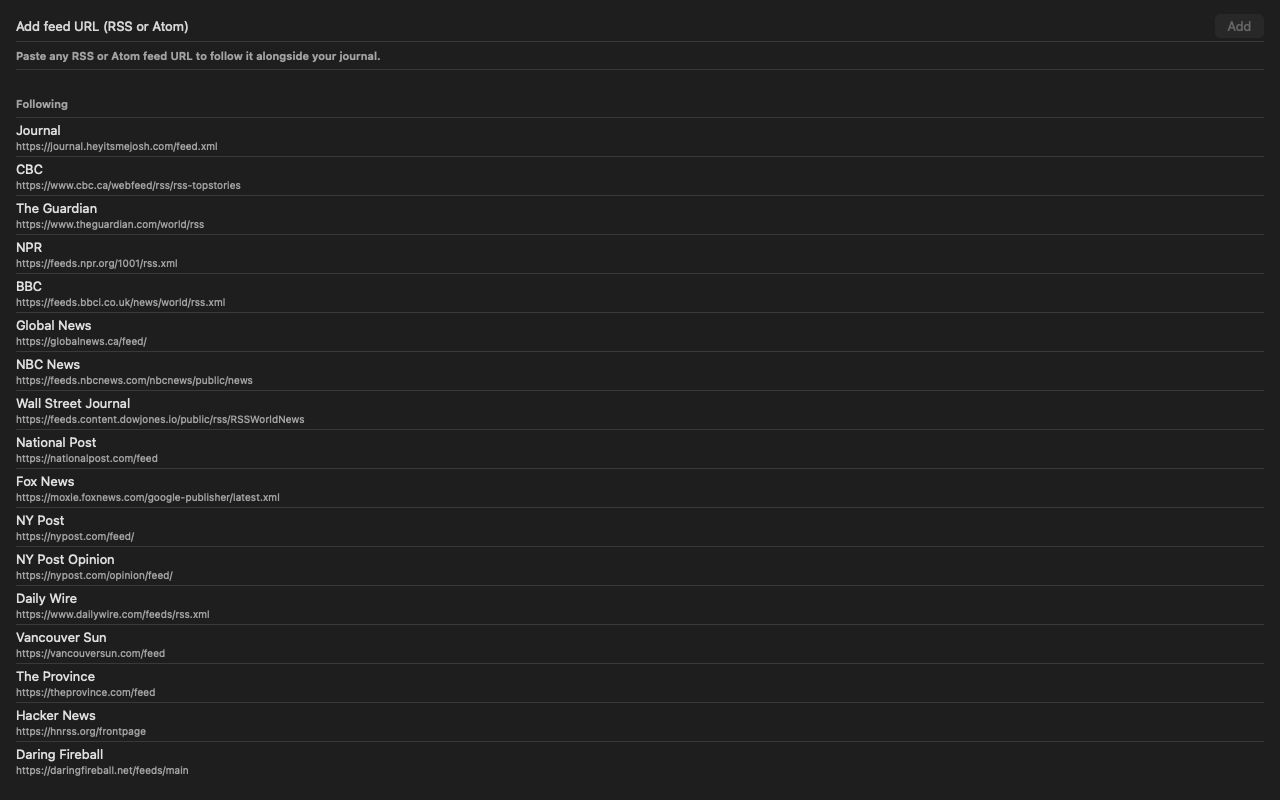
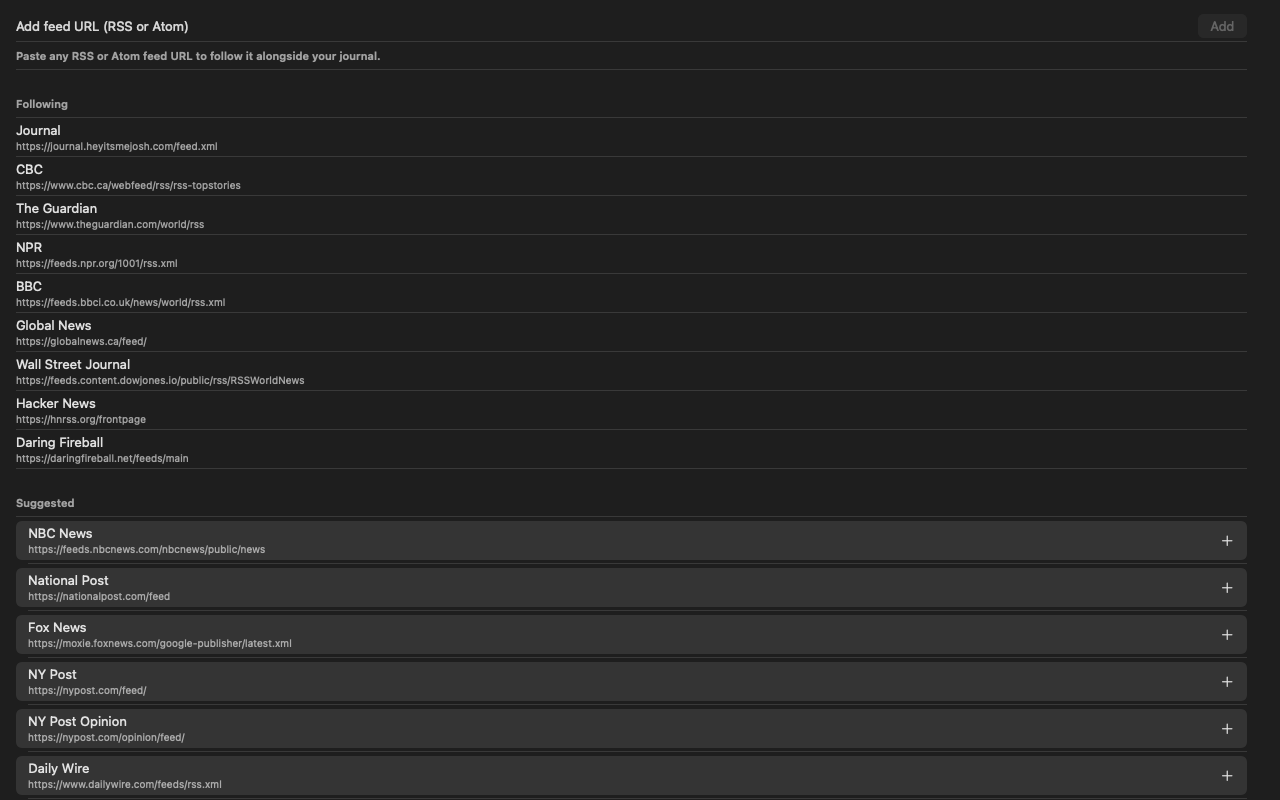
Add CSP and HSTS to web/_headers
The file already set nosniff/XFO/Referrer-Policy but no CSP or HSTS, so it
read as complete while leaving the main XSS defence off.

Claude-Session: https://claude.ai/code/session_01TpAGLRsvotbhmmLw7WhY4v

Changed region(s): [[0.0, 0.4375, 0.25, 1.0], [0.9375, 0.0312, 0.9688, 0.0625]]

diff --git a/ios/Sources/macOS/ScreenshotCapture.swift b/ios/Sources/macOS/ScreenshotCapture.swift
@@ -48,9 +48,16 @@ enum ScreenshotCapture {
         // Warm the on-disk entry cache first. `JournalFeedService.init` reads it, so the view
         // has real content the moment it is hosted instead of racing its own `.task`.
         let store = FeedStore()
+        let service = JournalFeedService()
+        // Trim the subscriptions before anything renders. The list view refreshes from this
+        // store, so without the trim it refetches all seventeen seeds and undoes the curation;
+        // and the feeds screen gets a real Following/Suggested split instead of one flat list.
+        // This writes feeds.json in the app's sandbox container — DEBUG-only, and the Mac app
+        // has never shipped, so there is no real subscription list to disturb.
+        store.feeds = store.feeds.filter { listSources.contains($0.title) }
+
         var article: JournalEntry?
         if state != .feeds {
-            let service = JournalFeedService()
             await_ { await service.refresh(feeds: store.feeds) }
             if service.entries.isEmpty {
                 fail("no entries fetched — check the network before trusting this frame")
@@ -61,7 +68,8 @@ enum ScreenshotCapture {
         let window = makeWindow()
         switch state {
         case .list:
-            window.contentViewController = NSHostingController(rootView: EntryListView())
+            window.contentViewController = NSHostingController(
+                rootView: EntryListView(feed: service, store: store))
         case .article:
             guard let article else {
                 fail("no entry from \(articleSources.joined(separator: " or ")) — refusing to " +
@@ -108,6 +116,15 @@ enum ScreenshotCapture {
         print(out.path)
         exit(0)
     }
+
+    /// Screenshots pull from a subset of the seed feeds rather than all seventeen. Every one of
+    /// these ships in the app, so the frames stay representative — but the tabloid seeds lead
+    /// with sportsbook promos often enough that one landed top-of-list on an early run, and a
+    /// gambling ad in the first row of a first-time listing is a fight nobody needs.
+    private static let listSources = [
+        "Journal", "BBC", "NPR", "The Guardian", "CBC", "Wall Street Journal",
+        "Global News", "Hacker News", "Daring Fireball",
+    ]
 
     /// Feeds whose newest item is safe to freeze into a store listing. The list shot is live
     /// news because that is honestly what the app shows, but a single article blown up to full

diff --git a/ios/Sources/Shared/Views/EntryListView.swift b/ios/Sources/Shared/Views/EntryListView.swift
@@ -1,9 +1,17 @@
 import SwiftUI
 
 struct EntryListView: View {
-    @StateObject private var feed = JournalFeedService()
-    @StateObject private var store = FeedStore()
+    @StateObject private var feed: JournalFeedService
+    @StateObject private var store: FeedStore
     @State private var showFeeds = false
+
+    /// Both default to the real thing; the parameters exist so the macOS screenshot capture can
+    /// hand in a pre-loaded service and a trimmed feed list without writing to the user's saved
+    /// subscriptions. No caller in the app passes either.
+    init(feed: JournalFeedService? = nil, store: FeedStore? = nil) {
+        _feed = StateObject(wrappedValue: feed ?? JournalFeedService())
+        _store = StateObject(wrappedValue: store ?? FeedStore())
+    }
 
     var body: some View {
         NavigationStack {
